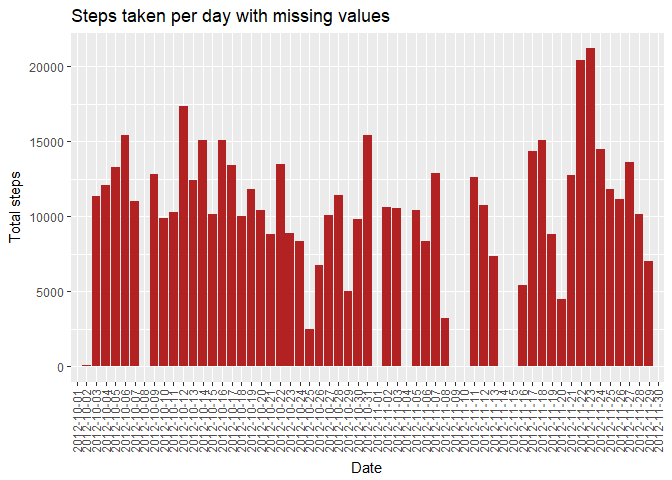
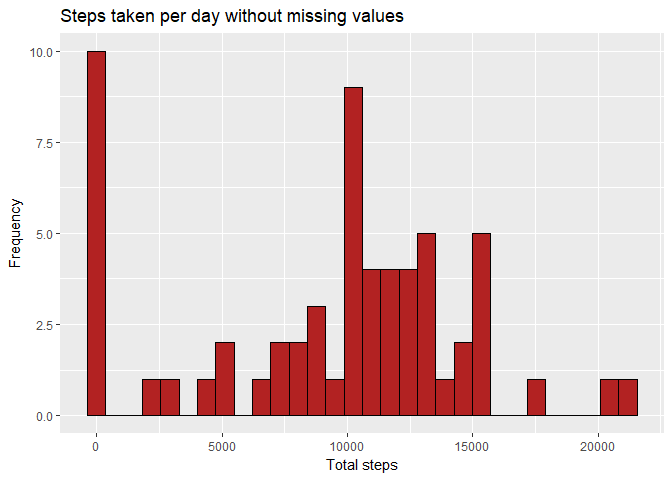
Signed-off-by: Alberto Olivieri <albertofedericoolivieri@gmail.com>

diff --git a/PA1_template.html b/PA1_template.html
@@ -151,18 +151,22 @@ library(ggplot2)</code></pre>
 <ul>
 <li>And then use the variable <code>sum</code> as a base for the plot:</li>
 </ul>
-<pre class="r"><code>p &lt;- ggplot(sum, aes(x = date, y = steps_sum))
-p + geom_histogram(stat = 'identity', fill = 'firebrick') +
-        labs(title = 'Steps taken per day with missing values', x = 'Date', 
-             y = 'Total steps') +
-        theme(axis.text.x = element_text(angle = 90, vjust = 0.4))</code></pre>
[1 lines of base64/hex data omitted]
+<pre class="r"><code>p &lt;- ggplot(sum, aes(x = steps_sum))
+p + geom_histogram(fill = 'firebrick', color = 'black') +
+        labs(title = 'Steps taken per day without missing values',
+             y = 'Frequency', x = 'Total steps')</code></pre>
[1 lines of base64/hex data omitted]
+<pre class="r"><code>pl &lt;- ggplot(sum, aes(x = log(steps_sum)))
+pl + geom_histogram(fill = 'firebrick', color = 'black') +
+        labs(title = 'Steps taken per day without missing values - LOG', 
+             y = 'Frequency', x = 'Total steps')</code></pre>
[1 lines of base64/hex data omitted]
 </div>
 </div>
 <div id="calculate-and-report-the-mean-and-median-of-the-total-number-of-steps-taken-per-day" class="section level2">
 <h2>Calculate and report the mean and median of the total number of steps taken per day</h2>
 <ul>
-<li>This step uses the same variable <code>sum</code>, under the code the resulsts are visible</li>
+<li>This step uses the same variable <code>sum</code>, under the code the results are visible</li>
 </ul>
 <pre class="r"><code>mean(sum$steps_sum)</code></pre>
 <pre><code>## [1] 9354.23</code></pre>
@@ -190,7 +194,7 @@ p2 + geom_line(col = 'firebrick') + labs(title = 'Steps taken on average per int
 <div id="minute-interval-on-average-across-all-the-days-in-the-dataset-containing-the-maximum-number-of-steps" class="section level2">
 <h2>5-minute interval, on average across all the days in the dataset, containing the maximum number of steps</h2>
 <ul>
-<li>This step uses the same variable <code>average</code>, under the code the resulsts are visible</li>
+<li>This step uses the same variable <code>average</code>, under the code the results are visible</li>
 </ul>
 <pre class="r"><code>max_avg &lt;- which.max(average$steps_mean)
 average[max_avg,1]</code></pre>
@@ -211,7 +215,7 @@ average[max_avg,1]</code></pre>
 </div>
 <div id="filling-in-all-of-the-missing-values-in-the-dataset-creating-a-new-dataset-that-is-equal-to-the-original-dataset-but-with-the-missing-data-filled-in" class="section level3">
 <h3>filling in all of the missing values in the dataset &amp; creating a new dataset that is equal to the original dataset but with the missing data filled in</h3>
-<p>First i stored in <code>incomplete_values</code> all the rows of <code>act</code> with an <code>NA</code>, then I transformed <code>average</code> from a Tibble into a Data Frame for using it subsquently. After that I merged the <code>incomplete_values</code> and the <code>average</code> Data Frames by the column ‘Interval’, with a left outer join (<code>all.x = T</code>, and <code>x = incomplete_values</code>). I sorted the values by date first and interval second to break the ties, so to have the values ordered as in the original <code>act</code>. Finally I created a copy of <code>act</code>, <code>act2</code>, i subsetted all the <code>NA</code> values and I substituted them with the values from the fourth column of <code>sorted_values</code>, the mean by time intervals.</p>
+<p>First i stored in <code>incomplete_values</code> all the rows of <code>act</code> with an <code>NA</code>, then I transformed <code>average</code> from a Tibble into a Data Frame for using it subsequently. After that I merged the <code>incomplete_values</code> and the <code>average</code> Data Frames by the column ‘Interval’, with a left outer join (<code>all.x = T</code>, and <code>x = incomplete_values</code>). I sorted the values by date first and interval second to break the ties, so to have the values ordered as in the original <code>act</code>. Finally I created a copy of <code>act</code>, <code>act2</code>, i subsetted all the <code>NA</code> values and I substituted them with the values from the fourth column of <code>sorted_values</code>, the mean by time intervals.</p>
 <pre class="r"><code>incomplete_values &lt;- act[is.na(act[,1]),]
 average &lt;- as.data.frame(average)
 merged_values &lt;- merge(incomplete_values, average, by = 'interval', all.x = T)
@@ -229,14 +233,18 @@ act2[is.na(act2[,1]),1] &lt;- sorted_values[,4]</code></pre>
 <ul>
 <li>And then use the variable <code>sum2</code> as a base for the plot:</li>
 </ul>
-<pre class="r"><code>p3 &lt;- ggplot(sum2, aes(x = date, y = steps_sum))
-p3 + geom_histogram(stat = 'identity', fill = 'firebrick') +
-        labs(title = 'Steps taken per day with missing values imputed', x = 'Date',
-             y = 'Total steps') + theme(axis.text.x = element_text(angle = 90, 
-                                                                   vjust = 0.4))</code></pre>
[1 lines of base64/hex data omitted]
+<pre class="r"><code>p3l &lt;- ggplot(sum2, aes(x = steps_sum))
+p3l + geom_histogram(col = 'black', fill = 'firebrick') +
+        labs(title = 'Steps taken per day with missing values', 
+             x = 'Total steps', y = 'Frequency')</code></pre>
[1 lines of base64/hex data omitted]
+<pre class="r"><code>p3l &lt;- ggplot(sum2, aes(x = log(steps_sum)))
+p3l + geom_histogram(col = 'black', fill = 'firebrick') +
+        labs(title = 'Steps taken per day with missing values - LOG', 
+             x = 'Total steps', y = 'Frequency')</code></pre>
[1 lines of base64/hex data omitted]
 <ul>
-<li>This step uses the same variable <code>sum2</code>, under the code the resulsts are visible</li>
+<li>This step uses the same variable <code>sum2</code>, under the code the results are visible</li>
 </ul>
 <pre class="r"><code>mean(sum2$steps_sum)</code></pre>
 <pre><code>## [1] 10766.19</code></pre>
@@ -255,7 +263,7 @@ p3 + geom_histogram(stat = 'identity', fill = 'firebrick') +
 <h2>Differences in activity patterns between weekdays and weekends</h2>
 <div id="factor-variable-in-the-dataset-with-two-levels-weekdays-and-weekends-indicating-whether-a-given-date-is-a-weekday-or-weekend-day" class="section level3">
 <h3>Factor variable in the dataset with two levels: weekdays and weekends indicating whether a given date is a weekday or weekend day</h3>
-<p>First I changed my locale so to have the names of the days in English, then I transformed the format of the date so to have the name of the week abbreviated. After that I added a new column, <code>days</code>, in which I stored the type of day of the week, <code>weekends</code> or <code>weekdays</code>. I factorized the column, gave it the name <code>days</code> and finally i grouped it by interval and days, summarising the mean of the steps.</p>
+<p>First I changed my locale so to have the names of the days in English, then I transformed the format of the date so to have the name of the week abbreviated. After that I added a new column, <code>days</code>, in which I stored the type of day of the week, <code>weekends</code> or <code>weekdays</code>. I factorized the column, gave it the name <code>days</code> and finally i grouped it by interval and days, summarizing the mean of the steps.</p>
 <pre class="r"><code>Sys.setlocale(&quot;LC_ALL&quot;,&quot;English&quot;)</code></pre>
 <pre><code>## [1] &quot;LC_COLLATE=English_United States.1252;LC_CTYPE=English_United States.1252;LC_MONETARY=English_United States.1252;LC_NUMERIC=C;LC_TIME=English_United States.1252&quot;</code></pre>
 <pre class="r"><code>act2[,2] &lt;- as.POSIXct(strptime(as.character(act2[,2]), '%Y-%m-%d'))

diff --git a/PA1_template.md b/PA1_template.md
@@ -41,18 +41,27 @@ sum  <- act %>% group_by(date) %>% summarise(steps_sum = sum(steps, na.rm = T))
 
 
 ```r
-p <- ggplot(sum, aes(x = date, y = steps_sum))
-p + geom_histogram(stat = 'identity', fill = 'firebrick') +
-        labs(title = 'Steps taken per day with missing values', x = 'Date', 
-             y = 'Total steps') +
-        theme(axis.text.x = element_text(angle = 90, vjust = 0.4))
+p <- ggplot(sum, aes(x = steps_sum))
+p + geom_histogram(fill = 'firebrick', color = 'black') +
+        labs(title = 'Steps taken per day without missing values',
+             y = 'Frequency', x = 'Total steps')
 ```
 
 ![](PA1_template_files/figure-html/first_plot-1.png)<!-- -->
 
+
+```r
+pl <- ggplot(sum, aes(x = log(steps_sum)))
+pl + geom_histogram(fill = 'firebrick', color = 'black') +
+        labs(title = 'Steps taken per day without missing values - LOG', 
+             y = 'Frequency', x = 'Total steps')
+```
+
+![](PA1_template_files/figure-html/first_plotlog-1.png)<!-- -->
+
 ## Calculate and report the mean and median of the total number of steps taken per day
 
-* This step uses the same variable `sum`, under the code the resulsts are visible
+* This step uses the same variable `sum`, under the code the results are visible
 
 
 ```r
@@ -96,7 +105,7 @@ p2 + geom_line(col = 'firebrick') + labs(title = 'Steps taken on average per int
 
 ## 5-minute interval, on average across all the days in the dataset, containing the maximum number of steps
 
-* This step uses the same variable `average`, under the code the resulsts are visible
+* This step uses the same variable `average`, under the code the results are visible
 
 
 ```r
@@ -128,7 +137,7 @@ length(act[is.na(act[,1]),1])
 
 ### filling in all of the missing values in the dataset & creating a new dataset that is equal to the original dataset but with the missing data filled in
 
-First i stored in `incomplete_values` all the rows of `act` with an `NA`, then I transformed `average` from a Tibble into a Data Frame for using it subsquently. After that I merged the `incomplete_values` and the `average` Data Frames by the column 'Interval', with a left outer join (`all.x = T`, and `x = incomplete_values`). I sorted the values by date first and interval second to break the ties, so to have the values ordered as in the original `act`. Finally I created a copy of `act`, `act2`, i subsetted all the `NA` values and I substituted them with the values from the fourth column of `sorted_values`, the mean by time intervals.
+First i stored in `incomplete_values` all the rows of `act` with an `NA`, then I transformed `average` from a Tibble into a Data Frame for using it subsequently. After that I merged the `incomplete_values` and the `average` Data Frames by the column 'Interval', with a left outer join (`all.x = T`, and `x = incomplete_values`). I sorted the values by date first and interval second to break the ties, so to have the values ordered as in the original `act`. Finally I created a copy of `act`, `act2`, i subsetted all the `NA` values and I substituted them with the values from the fourth column of `sorted_values`, the mean by time intervals.
 
 
 ```r
@@ -154,16 +163,25 @@ sum2  <- act2 %>% group_by(date) %>% summarise(steps_sum = sum(steps, na.rm = T)
 
 
 ```r
-p3 <- ggplot(sum2, aes(x = date, y = steps_sum))
-p3 + geom_histogram(stat = 'identity', fill = 'firebrick') +
-        labs(title = 'Steps taken per day with missing values imputed', x = 'Date',
-             y = 'Total steps') + theme(axis.text.x = element_text(angle = 90, 
-                                                                   vjust = 0.4))
+p3l <- ggplot(sum2, aes(x = steps_sum))
+p3l + geom_histogram(col = 'black', fill = 'firebrick') +
+        labs(title = 'Steps taken per day with missing values', 
+             x = 'Total steps', y = 'Frequency')
 ```
 
 ![](PA1_template_files/figure-html/third_plot-1.png)<!-- -->
 
-* This step uses the same variable `sum2`, under the code the resulsts are visible
+
+```r
+p3l <- ggplot(sum2, aes(x = log(steps_sum)))
+p3l + geom_histogram(col = 'black', fill = 'firebrick') +
+        labs(title = 'Steps taken per day with missing values - LOG', 
+             x = 'Total steps', y = 'Frequency')
+```
+
+![](PA1_template_files/figure-html/third_plotlog-1.png)<!-- -->
+
+* This step uses the same variable `sum2`, under the code the results are visible
 
 
 ```r
@@ -205,7 +223,7 @@ median(sum$steps_sum)-median(sum2$steps_sum)
 
 ### Factor variable in the dataset with two levels: weekdays and weekends indicating whether a given date is a weekday or weekend day
 
-First I changed my locale so to have the names of the days in English, then I transformed the format of the date so to have the name of the week abbreviated. After that I added a new column, `days`, in which I stored the type of day of the week, `weekends` or `weekdays`. I factorized the column, gave it the name `days` and finally i grouped it by interval and days, summarising the mean of the steps.
+First I changed my locale so to have the names of the days in English, then I transformed the format of the date so to have the name of the week abbreviated. After that I added a new column, `days`, in which I stored the type of day of the week, `weekends` or `weekdays`. I factorized the column, gave it the name `days` and finally i grouped it by interval and days, summarizing the mean of the steps.
 
 
 ```r
